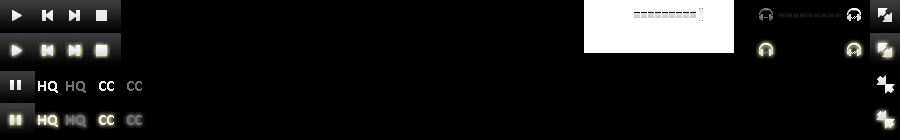
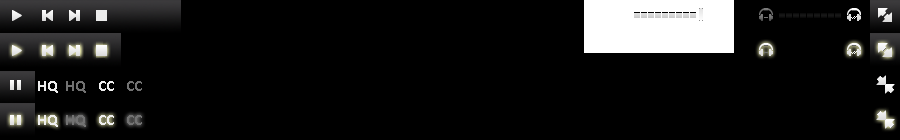
changes

Changed region(s): [[0.1244, 0.0, 0.2178, 0.1429]]

diff --git a/projektor/descriptions.html b/projektor/descriptions.html
@@ -1,121 +1,132 @@
 <div id="Hotbars">
-	<p>Hotbars is a significant innovation in the fundamental image analysis methods used to read barcodes. The result of a two-year R&D effort led by Cognex cofounder Bill Silver, Hotbars technology combines with Cognex-led advances in image formation to enable DataMan ID readers to outperform traditional laser scanners in the most demanding applications:</p>
-		<p class="indent">&bull;material handling</p>
-		<p class="indent">&bull;logistics</p>
-		<p class="indent">&bull;electronics</p>
-		<p class="indent">&bull;food/beverage</p>
-		<p class="indent">&bull;consumer goods</p>
-		<p class="indent">&bull;automotive</p>
+	<h4 class="cognex-content-title">Hotbars™: a new foundation for 1-D barcode reading: image<br/> analysis technology</h4>
+	<p class="cognex-content-p">Hotbars is a significant innovation in the fundamental image analysis methods used to read barcodes. The result of a two-year R&D effort led by Cognex cofounder Bill Silver, Hotbars technology combines with Cognex-led advances in image formation to enable DataMan ID readers to outperform traditional laser scanners in the most demanding applications:</p>
+		<p class="indent cognex-content-p">&bull;material handling</p>
+		<p class="indent cognex-content-p">&bull;logistics</p>
+		<p class="indent cognex-content-p">&bull;electronics</p>
+		<p class="indent cognex-content-p">&bull;food/beverage</p>
+		<p class="indent cognex-content-p">&bull;consumer goods</p>
+		<p class="indent cognex-content-p">&bull;automotive</p>
 
-	<p>In this presentation, Bill describes how Hotbars finds barcodes in a scene and extracts one-dimensional signals for decoding. He also discusses the performance of Hotbars, with particular emphasis on significant improvements in resolution and speed, as well as the implications of these innovations for the future of barcode reading.</p>
+	<p class="cognex-content-p">In this presentation, Bill describes how Hotbars finds barcodes in a scene and extracts one-dimensional signals for decoding. He also discusses the performance of Hotbars, with particular emphasis on significant improvements in resolution and speed, as well as the implications of these innovations for the future of barcode reading.</p>
 </div><!--end #hotbars-->
 
 <div id="DataMan-Eight">
-	<p>The DataMan 8000 Series of industrial handheld ID code readers builds upon the capabilities of the existing highly successful DataMan industrial readers, which have been the benchmark for industrial direct part mark (DPM) code reading performance since their release.</p>
-	<p>Our expert presenter demonstrates three revolutionary capabilities for your industrial environment</p>
+	<h4 class="cognex-content-title">DataMan 8000 - the Most Advanced Industrial ID Reader Ever</h4>
+	<p class="cognex-content-p">The DataMan 8000 Series of industrial handheld ID code readers builds upon the capabilities of the existing highly successful DataMan industrial readers, which have been the benchmark for industrial direct part mark (DPM) code reading performance since their release.</p>
+	<p class="cognex-content-p">Our expert presenter demonstrates three revolutionary capabilities for your industrial environment</p>
 
-		<p class="indent">- First liquid lens technology autofocus in an industrial handheld reader for more depth of field flexibility</p>
-		<p class="indent">- Innovative modular communications including Ethernet (another first!) for real-time part traceability</p>
-		<p class="indent">- Cognex patented IDMax® technology including 1DMax™ and 2DMax™ decodes virtually every type of code, every time, with unsurpassed read rates.</p>
+		<p class="indent cognex-content-p">- First liquid lens technology autofocus in an industrial handheld reader for more depth of field flexibility</p>
+		<p class="indent cognex-content-p">- Innovative modular communications including Ethernet (another first!) for real-time part traceability</p>
+		<p class="indent cognex-content-p">- Cognex patented IDMax® technology including 1DMax™ and 2DMax™ decodes virtually every type of code, every time, with unsurpassed read rates.</p>
 </div><!--end #DataMan-->
 
 <div id="Supercharged">
-	<p>Learn how the VSoC-powered DataMan 500 achieves new levels of reading performance and ease of use not available in other image-based readers or laser scanners including:</p>
+	<h4 class="cognex-content-title">Supercharged ID: Achieving New Levels of Performance and Ease of Use</h4>
+	<p class="cognex-content-p">Learn how the VSoC-powered DataMan 500 achieves new levels of reading performance and ease of use not available in other image-based readers or laser scanners including:</p>
 
-<p class="indent">&bull;Ultra fast autoexposure and image acquisition speeds of up to 1,000 frames per second</p>
-<p class="indent">&bull;Read rates of up to 90 1-D barcodes per second—two times the speed of other readers</p>
-<p class="indent">&bull;High read rates for difficult-to-read DPM codes</p>
-<p class="indent">&bull;Trigger-free reading to reduce overall setup costs, deployment time, and system complexity</p>
-<p class="indent">&bull;Minimal need for external lighting and precision alignment</p>
+<p class="indent cognex-content-p">&bull;Ultra fast autoexposure and image acquisition speeds of up to 1,000 frames per second</p>
+<p class="indent cognex-content-p">&bull;Read rates of up to 90 1-D barcodes per second—two times the speed of other readers</p>
+<p class="indent cognex-content-p">&bull;High read rates for difficult-to-read DPM codes</p>
+<p class="indent cognex-content-p">&bull;Trigger-free reading to reduce overall setup costs, deployment time, and system complexity</p>
+<p class="indent cognex-content-p">&bull;Minimal need for external lighting and precision alignment</p>
 </div><!--end #Supercharged-->
 
 <div id="Introduction">
-	<p>Today’s advanced imaging technology can help your company implement a reliable Direct Part Mark (DPM) or general product or part traceability program.</p>
-	<p>Topics include:</p>
-		<p class="indent">- The benefits of implementing a successful part traceability program</p>
-		<p class="indent">- Best practices in marking and reading 2D Data Matrix codes, - Demonstrations of Cognex DataMan® ID readers in action.</p>
+	<h4 class="cognex-content-title">Introduction to DPM: Implementing a Part Traceability Program</h4>
+	<p class="cognex-content-p">Today’s advanced imaging technology can help your company implement a reliable Direct Part Mark (DPM) or general product or part traceability program.</p>
+	<p class="cognex-content-p">Topics include:</p>
+		<p class="indent cognex-content-p">- The benefits of implementing a successful part traceability program</p>
+		<p class="indent cognex-content-p">- Best practices in marking and reading 2D Data Matrix codes, - Demonstrations of Cognex DataMan® ID readers in action.</p>
 
-	<p>You will also learn how both fixed-mount and handheld ID readers can be used to track process flow throughout your plant.</p>
+	<p class="cognex-content-p">You will also learn how both fixed-mount and handheld ID readers can be used to track process flow throughout your plant.</p>
 </div><!--end #Introduction-->
 
 <div id="Ten-Reasons">
-	<p>Image-based ID readers are replacing laser scanners in a wide range of industries, but when considering a transition from laser scanners to image-based barcode readers some think the cost is too high.</p>
+	<h4 class="cognex-content-title">10 Reasons to Choose Image-based ID Readers</h4>
+	<p class="cognex-content-p">Image-based ID readers are replacing laser scanners in a wide range of industries, but when considering a transition from laser scanners to image-based barcode readers some think the cost is too high.</p>
 
-	<p>Thanks to advances in technology, image-based ID readers have overcome economic hurdles and now offer a more attractive alternative to laser scanners on the factory floor.</p>
+	<p class="cognex-content-p">Thanks to advances in technology, image-based ID readers have overcome economic hurdles and now offer a more attractive alternative to laser scanners on the factory floor.</p>
 
-	<p>This presentation covers the top 10 Reasons to Choose Image-based ID Readers based upon the areas where image-based ID readers have proven to outperform laser scanners, like:</p>
+	<p class="cognex-content-p">This presentation covers the top 10 Reasons to Choose Image-based ID Readers based upon the areas where image-based ID readers have proven to outperform laser scanners, like:</p>
 
-		<p class="indent">&bull;Read rate performance</p>
-		<p class="indent">&bull;Long-term reliability</p>
-		<p class="indent">&bull;Multiple code reading and output capability</p>
-		<p class="indent">&bull;Image archiving, and more...</p>
+		<p class="indent cognex-content-p">&bull;Read rate performance</p>
+		<p class="indent cognex-content-p">&bull;Long-term reliability</p>
+		<p class="indent cognex-content-p">&bull;Multiple code reading and output capability</p>
+		<p class="indent cognex-content-p">&bull;Image archiving, and more...</p>
 </div><!--end #ten-reasons-->
 
 <div id="Multiple">
-	<p>The primary way we solve ID applications is to provide hardware and algorithms that achieve the highest read rates. But beyond reading, Cognex focuses on finding other ways to make your life easier. One application we can help with is reading multiple codes more easily with our DataMan® family of industrial ID readers.<p>
+	<h4 class="cognex-content-title">Multiple Code Reading Made Easy</h4>
+	<p class="cognex-content-p">The primary way we solve ID applications is to provide hardware and algorithms that achieve the highest read rates. But beyond reading, Cognex focuses on finding other ways to make your life easier. One application we can help with is reading multiple codes more easily with our DataMan® family of industrial ID readers.<p class="cognex-content-p">
 
-	<p>Our expert presenter will discuss how to easily solve applications that read:</p>
-	<p class="indent">&bull;Multiple codes of the same symbology within one field of view (FOV)</p>
-	<p class="indent">&bull;Multiple codes of mixed symbologies within one FOV</p>
-	<p class="indent">&bull;One or more codes on multiple sides to verify that codes match</p>
-	<p class="indent">&bull;One or more codes on multiple sides to output both sides' read results as one</p>
+	<p class="cognex-content-p">Our expert presenter will discuss how to easily solve applications that read:</p>
+	<p class="indent cognex-content-p">&bull;Multiple codes of the same symbology within one field of view (FOV)</p>
+	<p class="indent cognex-content-p">&bull;Multiple codes of mixed symbologies within one FOV</p>
+	<p class="indent cognex-content-p">&bull;One or more codes on multiple sides to verify that codes match</p>
+	<p class="indent cognex-content-p">&bull;One or more codes on multiple sides to output both sides' read results as one</p>
 </div><!--end #Multiple-->
 
 <div id="Barcode">
-	<p>DataMan® image-based barcode readers are fast replacing laser scanners in barcode reading applications around the world as manufacturers realize the tangible benefits they provide.</p>
+	<h4 class="cognex-content-title">3 Barcode Reader Features You Want</h4>
+	<p class="cognex-content-p">DataMan® image-based barcode readers are fast replacing laser scanners in barcode reading applications around the world as manufacturers realize the tangible benefits they provide.</p>
 
-	<p>Our expert presenter will walk you through three barcode reader features you want which can help you:</p>
-		<p class="indent">&bull;Reduce costs</p>
-		<p class="indent">&bull;Increase throughput</p>
-		<p class="indent">&bull;Get better data</p>
-		<p class="indent">&bull;Improve processes</p>
+	<p class="cognex-content-p">Our expert presenter will walk you through three barcode reader features you want which can help you:</p>
+		<p class="indent cognex-content-p">&bull;Reduce costs</p>
+		<p class="indent cognex-content-p">&bull;Increase throughput</p>
+		<p class="indent cognex-content-p">&bull;Get better data</p>
+		<p class="indent cognex-content-p">&bull;Improve processes</p>
 </div><!--end #Barcode-->
 
 <div id="Why-You-Need">
-	<p>DataMan® logistics barcode readers are the next generation of barcode readers for postal, parcel and package sorting operations and are rapidly replacing laser scanner and line scan systems around the world.</p>
-	<p>This presentation will make you rethink what your barcode readers can do for your operation.</p>
-	<p>Learn how DataMan barcode readers:</p>
+	<h4 class="cognex-content-title">Why You Need to Upgrade Your Laser Scanners Now!</h4>
+	<p class="cognex-content-p">DataMan® logistics barcode readers are the next generation of barcode readers for postal, parcel and package sorting operations and are rapidly replacing laser scanner and line scan systems around the world.</p>
+	<p class="cognex-content-p">This presentation will make you rethink what your barcode readers can do for your operation.</p>
+	<p class="cognex-content-p">Learn how DataMan barcode readers:</p>
 
-		<p class="indent">&bull;Reduce </p>
-		<p class="indent">&bull;Increase throughput</p>
-		<p class="indent">&bull;Enable you to get better data</p>
-		<p class="indent">&bull;Help with process improvement</p>
+		<p class="indent cognex-content-p">&bull;Reduce </p>
+		<p class="indent cognex-content-p">&bull;Increase throughput</p>
+		<p class="indent cognex-content-p">&bull;Enable you to get better data</p>
+		<p class="indent cognex-content-p">&bull;Help with process improvement</p>
 
 </div><!--end #Why-You-Need-->
 
 <div id="Dataman-Fifty">
-	<p>Small in size but exceptional in barcode reading performance, the DataMan 50L measures just 23.5mm x 27mm x 43.5mm and features an IP65-rated housing. It is ideal for mounting in very tight spaces on production lines and in machinery. The DataMan 50L is equipped with Hotbars™, a proprietary image analysis technology that delivers the highest read rates in the industry.</p>
-	<p>The DataMan 50L includes all of the features that make Cognex the premier barcode reading brand, including:</p>
+	<h4 class="cognex-content-title">DataMan 50L - small barcode reader with exceptional performance</h4>
+	<p class="cognex-content-p">Small in size but exceptional in barcode reading performance, the DataMan 50L measures just 23.5mm x 27mm x 43.5mm and features an IP65-rated housing. It is ideal for mounting in very tight spaces on production lines and in machinery. The DataMan 50L is equipped with Hotbars™, a proprietary image analysis technology that delivers the highest read rates in the industry.</p>
+	<p class="cognex-content-p">The DataMan 50L includes all of the features that make Cognex the premier barcode reading brand, including:</p>
 
-		<p class="indent">- Hotbars, which provides the highest read rates of 1-D linear barcodes, including those that are damaged, distorted, blurred, scratched, low height or low contrast.</p>
-		<p class="indent">- The ability to analyze “no reads” by letting the user see what the reader sees, either live on a monitor or through image archiving.</p>
-		<p class="indent">- Designed with no moving parts that can become worn out and require replacement.</p>
+		<p class="indent cognex-content-p">- Hotbars, which provides the highest read rates of 1-D linear barcodes, including those that are damaged, distorted, blurred, scratched, low height or low contrast.</p>
+		<p class="indent cognex-content-p">- The ability to analyze “no reads” by letting the user see what the reader sees, either live on a monitor or through image archiving.</p>
+		<p class="indent cognex-content-p">- Designed with no moving parts that can become worn out and require replacement.</p>
 </div><!--end #Dataman-Fifty-->
 
 <div id="Dataman-Three">
-	<p>The DataMan 300 series of readers was developed to be a best-in-class barcode reader for indexed or high-speed lines.</p>
+	<h4 class="cognex-content-title">DataMan 300 - A Quantum Leap in Barcode Reading Technology</h4>
+	<p class="cognex-content-p">The DataMan 300 series of readers was developed to be a best-in-class barcode reader for indexed or high-speed lines.</p>
 
-	<p>DataMan 300 delivers a quantum leap in barcode reading capabilities, as well as introduces several other new features that improve ease-of-use and performance, including:</p>
+	<p class="cognex-content-p">DataMan 300 delivers a quantum leap in barcode reading capabilities, as well as introduces several other new features that improve ease-of-use and performance, including:</p>
 
-		<p class="indent">&bull;Controllable, field interchangeable lighting modules</p>
-		<p class="indent">&bull;Flexible lens optionsv
-		<p class="indent">&bull;Intelligent tuning</p>
-		<p class="indent">&bull;Unmatched read rate performance with 2DMax+™ for 2-D matrix codes and 1DMax+™ with the new Hotbars™ technology</p> 
-		<p class="indent">&bull;that provides higher read rates of damaged 1-D linear barcodes at a faster pace than ever beforev</p>
-	<p>The presentation includes:</p>
-		<p class="indent">&bull;A comprehensive overview of the DataMan 300</p>
-		<p class="indent">&bull;Demos of the new features</p>
-		<p class="indent">&bull;Suggestions about practical applications</p>
+		<p class="indent cognex-content-p">&bull;Controllable, field interchangeable lighting modules</p>
+		<p class="indent cognex-content-p">&bull;Flexible lens optionsv
+		<p class="indent cognex-content-p">&bull;Intelligent tuning</p>
+		<p class="indent cognex-content-p">&bull;Unmatched read rate performance with 2DMax+™ for 2-D matrix codes and 1DMax+™ with the new Hotbars™ technology</p> 
+		<p class="indent cognex-content-p">&bull;that provides higher read rates of damaged 1-D linear barcodes at a faster pace than ever beforev</p>
+	<p class="cognex-content-p">The presentation includes:</p>
+		<p class="indent cognex-content-p">&bull;A comprehensive overview of the DataMan 300</p>
+		<p class="indent cognex-content-p">&bull;Demos of the new features</p>
+		<p class="indent cognex-content-p">&bull;Suggestions about practical applications</p>
 </div><!--end #Dataman-Three-->
 
 <div id="Integrating">
-	<p>Though fixed-mount ID readers have been enabled with Ethernet support for quite some time, handheld ID readers, traditionally serial or USB based, have always required a PC to connect into the factory network.</p>
+	<h4 class="cognex-content-title">Integrating Ethernet-based Industrial Handheld ID Readers into your Factory Network</h4>
+	<p class="cognex-content-p">Though fixed-mount ID readers have been enabled with Ethernet support for quite some time, handheld ID readers, traditionally serial or USB based, have always required a PC to connect into the factory network.</p>
 
-	<p>As a node on the Ethernet factory network, the DataMan 8000 Series allows you to remove the PC and to communicate directly with the PLC by supporting industrial protocols—a first for a handheld ID reader!</p>
+	<p class="cognex-content-p">As a node on the Ethernet factory network, the DataMan 8000 Series allows you to remove the PC and to communicate directly with the PLC by supporting industrial protocols—a first for a handheld ID reader!</p>
 
-	<p>This presentation will show you how the advanced DataMan 8000 Series of Ethernet-based handheld industrial ID readers can:</p>
-		<p class="indent">&bull;Reduce the installation cost of handheld readers to your factory network</p>
-		<p class="indent">&bull;Reduce the complexity of your system</p>
-		<p class="indent">&bull;Reduce maintenance costs</p>
-		<p class="indent">&bull;Grant you remote access to diagnostics, never before available on your network, and More...</p>
+	<p class="cognex-content-p">This presentation will show you how the advanced DataMan 8000 Series of Ethernet-based handheld industrial ID readers can:</p>
+		<p class="indent cognex-content-p">&bull;Reduce the installation cost of handheld readers to your factory network</p>
+		<p class="indent cognex-content-p">&bull;Reduce the complexity of your system</p>
+		<p class="indent cognex-content-p">&bull;Reduce maintenance costs</p>
+		<p class="indent cognex-content-p">&bull;Grant you remote access to diagnostics, never before available on your network, and More...</p>
 </div><!--end #Integrating-->

diff --git a/projektor/themes/maccaco/projekktor.style.css b/projektor/themes/maccaco/projekktor.style.css
@@ -438,6 +438,15 @@ height: 0px
     border-right: none;
     margin: -30px 0 0 90px;
 }
+.ppnext.inactive, .ppnext.inactive:hover {
+display: block!important;
+-webkit-user-select: none!important;
+-moz-user-select: none!important;
+-ms-user-select: none!important;
+border-right: none;
+margin: -30px 0 0 90px;
+background: url("maccaco.png") no-repeat -116px 0px transparent;
+}
 .ppnext:hover {
     background: url("maccaco.png") no-repeat -59px -35px transparent;
 }
@@ -769,13 +778,15 @@ border-bottom: 2px solid #333;
     color:#fff;
 }
 .ppstop{
-    -webkit-user-select: none;
-    margin: -30px 0 0 60px;
-float: left;
-background: url("maccaco.png") no-repeat -86px top transparent;
-width: 30px;
-height: 30px;
-cursor: pointer;
+    -webkit-user-select: none;  /* Chrome all / Safari all */
+  -moz-user-select: none;     /* Firefox all */
+  -ms-user-select: none;      /* IE 10+ */
+        margin: -30px 0 0 60px;
+    float: left;
+    background: url("maccaco.png") no-repeat -86px top transparent;
+    width: 30px;
+    height: 30px;
+    cursor: pointer;
 }
 .ppstop:hover{
 background: url("maccaco.png") no-repeat -86px -35px transparent;

diff --git a/projektor/cognex_player_style.css b/projektor/cognex_player_style.css
@@ -124,3 +124,6 @@ p.indent{
 	margin: 16px 0 0 22px;
 	cursor:pointer;
 }
+.cognex-content-p{
+	font-size: 12px;
+}
